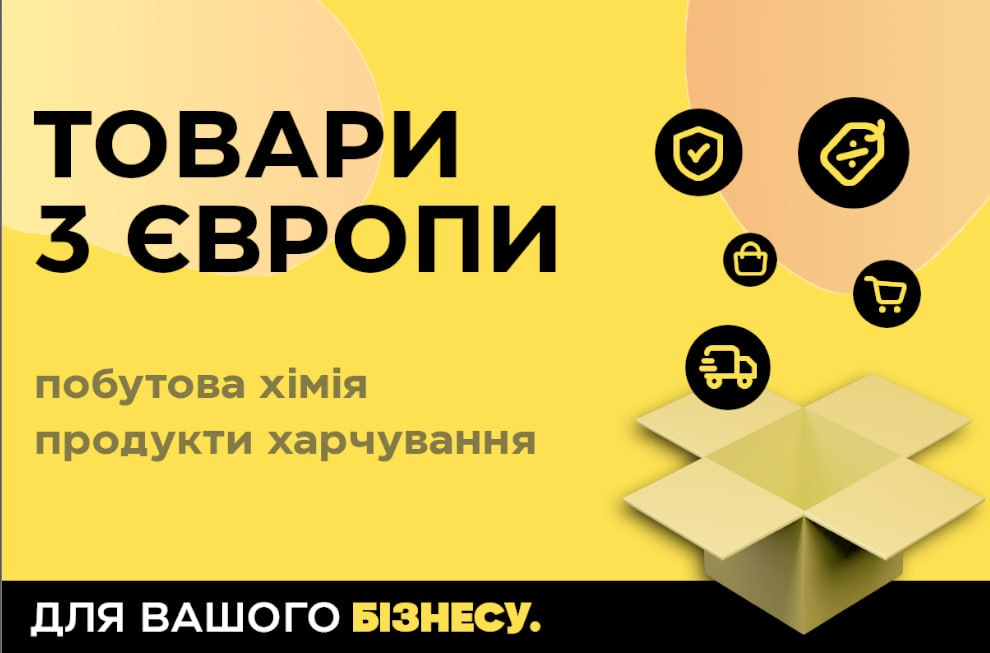
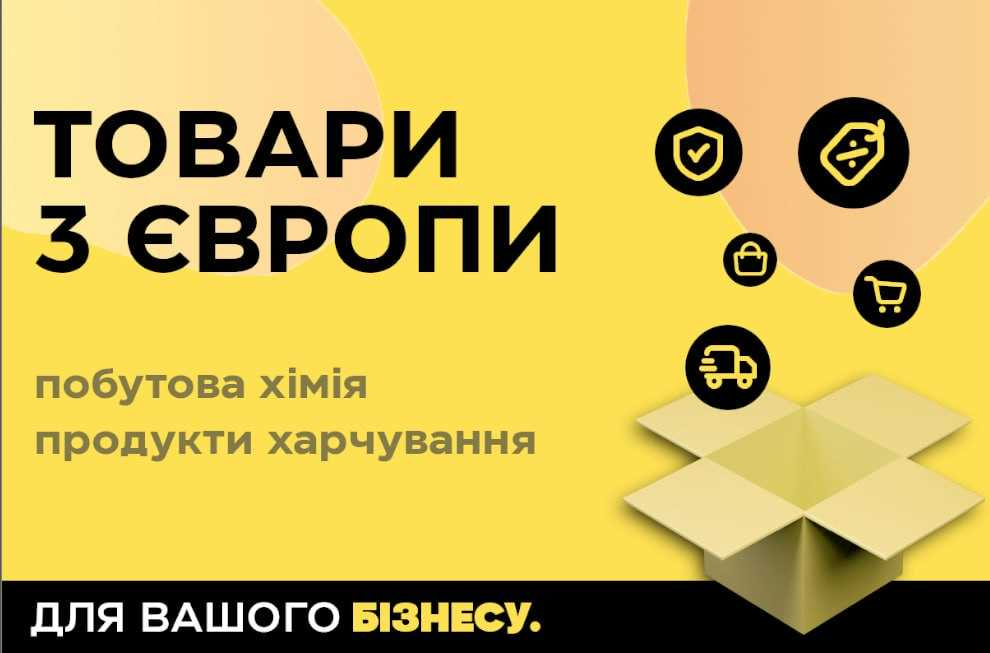
fix(link-preview): set exact size of image in metadata, reduce preview image size to <40KB
Details: https://stackoverflow.com/a/65093512

diff --git a/nuxt.config.ts b/nuxt.config.ts
@@ -28,6 +28,8 @@ export default defineNuxtConfig({
         {property: 'twitter:card', content: 'summary_large_image'},
         {property: 'twitter:image', content: '/preview.jpg'},
         {property: 'og:image', content: '/preview.jpg'},
+        {property: 'og:image:width', content: '990'},
+        {property: 'og:image:height', content: '653'},
       ],
     },
   },
